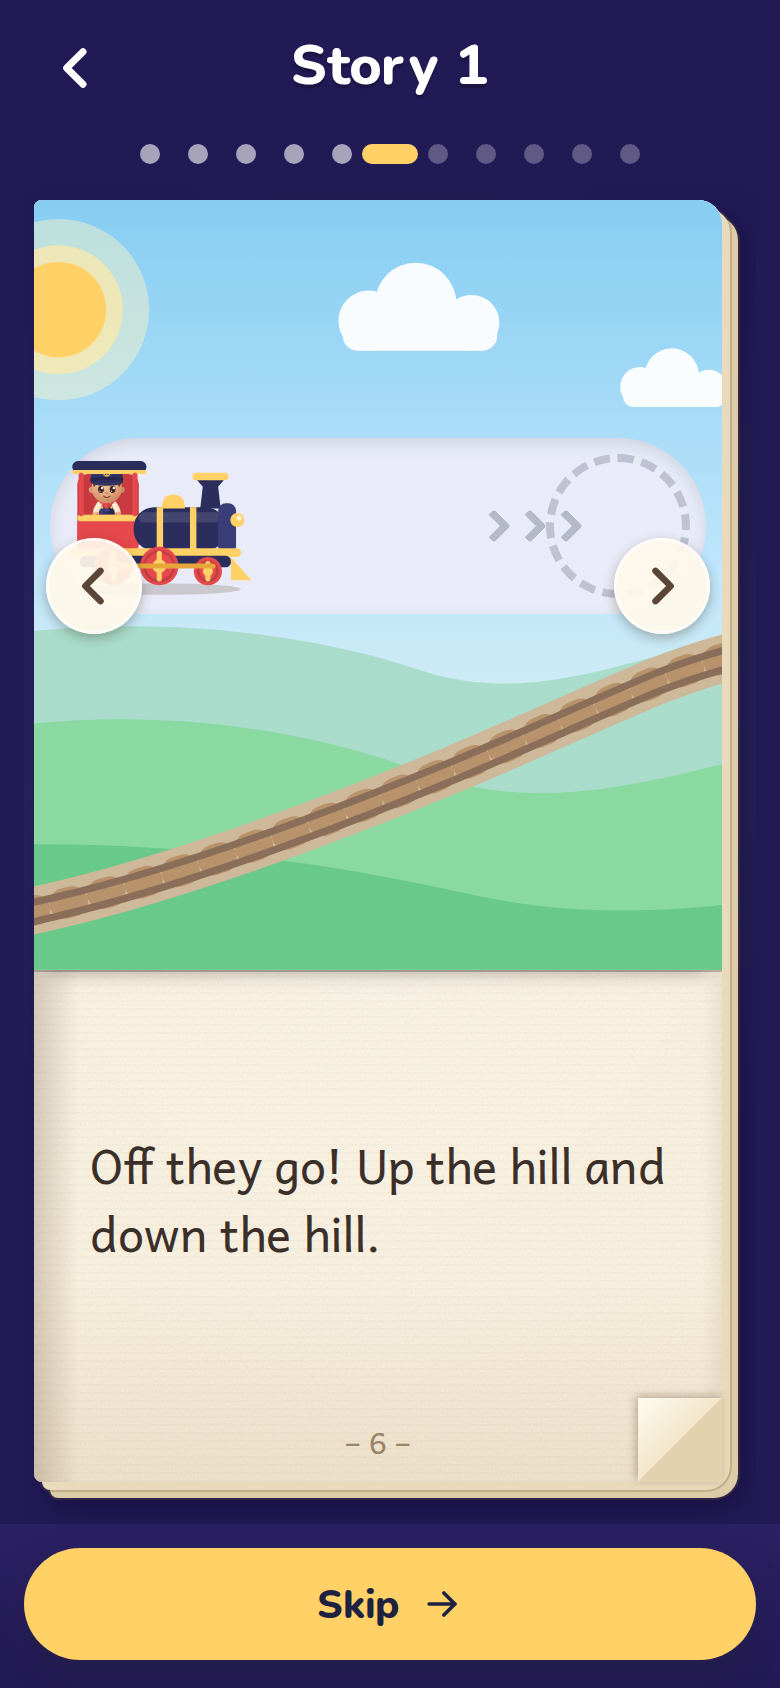
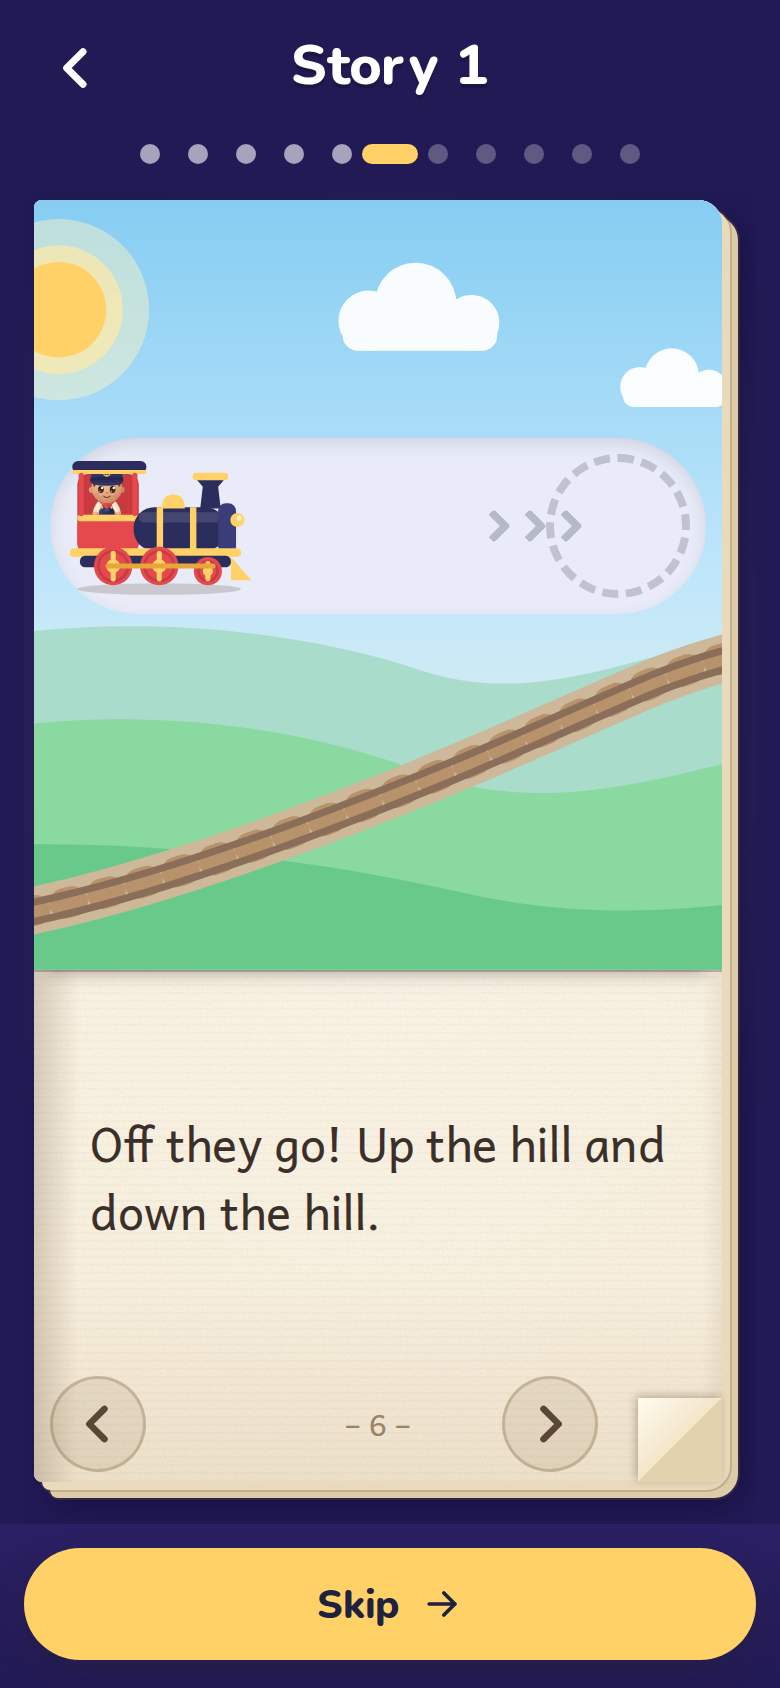
WIP storybook: bottom row room

diff --git a/css/app.css b/css/app.css
@@ -882,8 +882,8 @@ button img, .word-tile img, .pic-frame img { pointer-events: none; -webkit-user-
   background-image: var(--fibers), var(--grain), linear-gradient(90deg, rgba(70,45,20,.2), rgba(70,45,20,0) 22px), linear-gradient(270deg, rgba(70,45,20,.07), rgba(70,45,20,0) 10px), radial-gradient(120% 80% at 50% 45%, rgba(255,255,255,.4), rgba(255,255,255,0) 62%), linear-gradient(0deg, rgba(150,110,60,.12), rgba(150,110,60,0) 16%); }
 .book-sheet.is-left { border-radius: 12px 4px 4px 12px;
   background-image: var(--fibers), var(--grain), linear-gradient(270deg, rgba(70,45,20,.22), rgba(70,45,20,0) 30px), linear-gradient(90deg, rgba(70,45,20,.07), rgba(70,45,20,0) 10px), radial-gradient(120% 80% at 50% 45%, rgba(255,255,255,.4), rgba(255,255,255,0) 62%), linear-gradient(0deg, rgba(150,110,60,.12), rgba(150,110,60,0) 16%); }
-.book-body { flex: 1 0 auto; display: flex; flex-direction: column; justify-content: center; gap: 10px; padding: 14px 24px 62px 28px; box-sizing: border-box; min-height: 0; }
-.book-sheet.is-left .book-body { padding: 18px 30px 62px 22px; justify-content: flex-start; }
+.book-body { flex: 1 0 auto; display: flex; flex-direction: column; justify-content: center; gap: 10px; padding: 14px 24px 68px 28px; box-sizing: border-box; min-height: 0; }
+.book-sheet.is-left .book-body { padding: 18px 30px 68px 22px; justify-content: flex-start; }
 .book[data-spread="1"] .book-sheet.is-right .book-body { flex: 0 0 auto; padding: 8px 18px 62px 24px; }
 .book-sheet.kind-review .book-body { flex: 1 1 auto; justify-content: flex-start; }
 .book-folio { position: absolute; left: 0; right: 0; bottom: 19px; text-align: center; font-size: 15px; color: #9A8466; pointer-events: none; }
